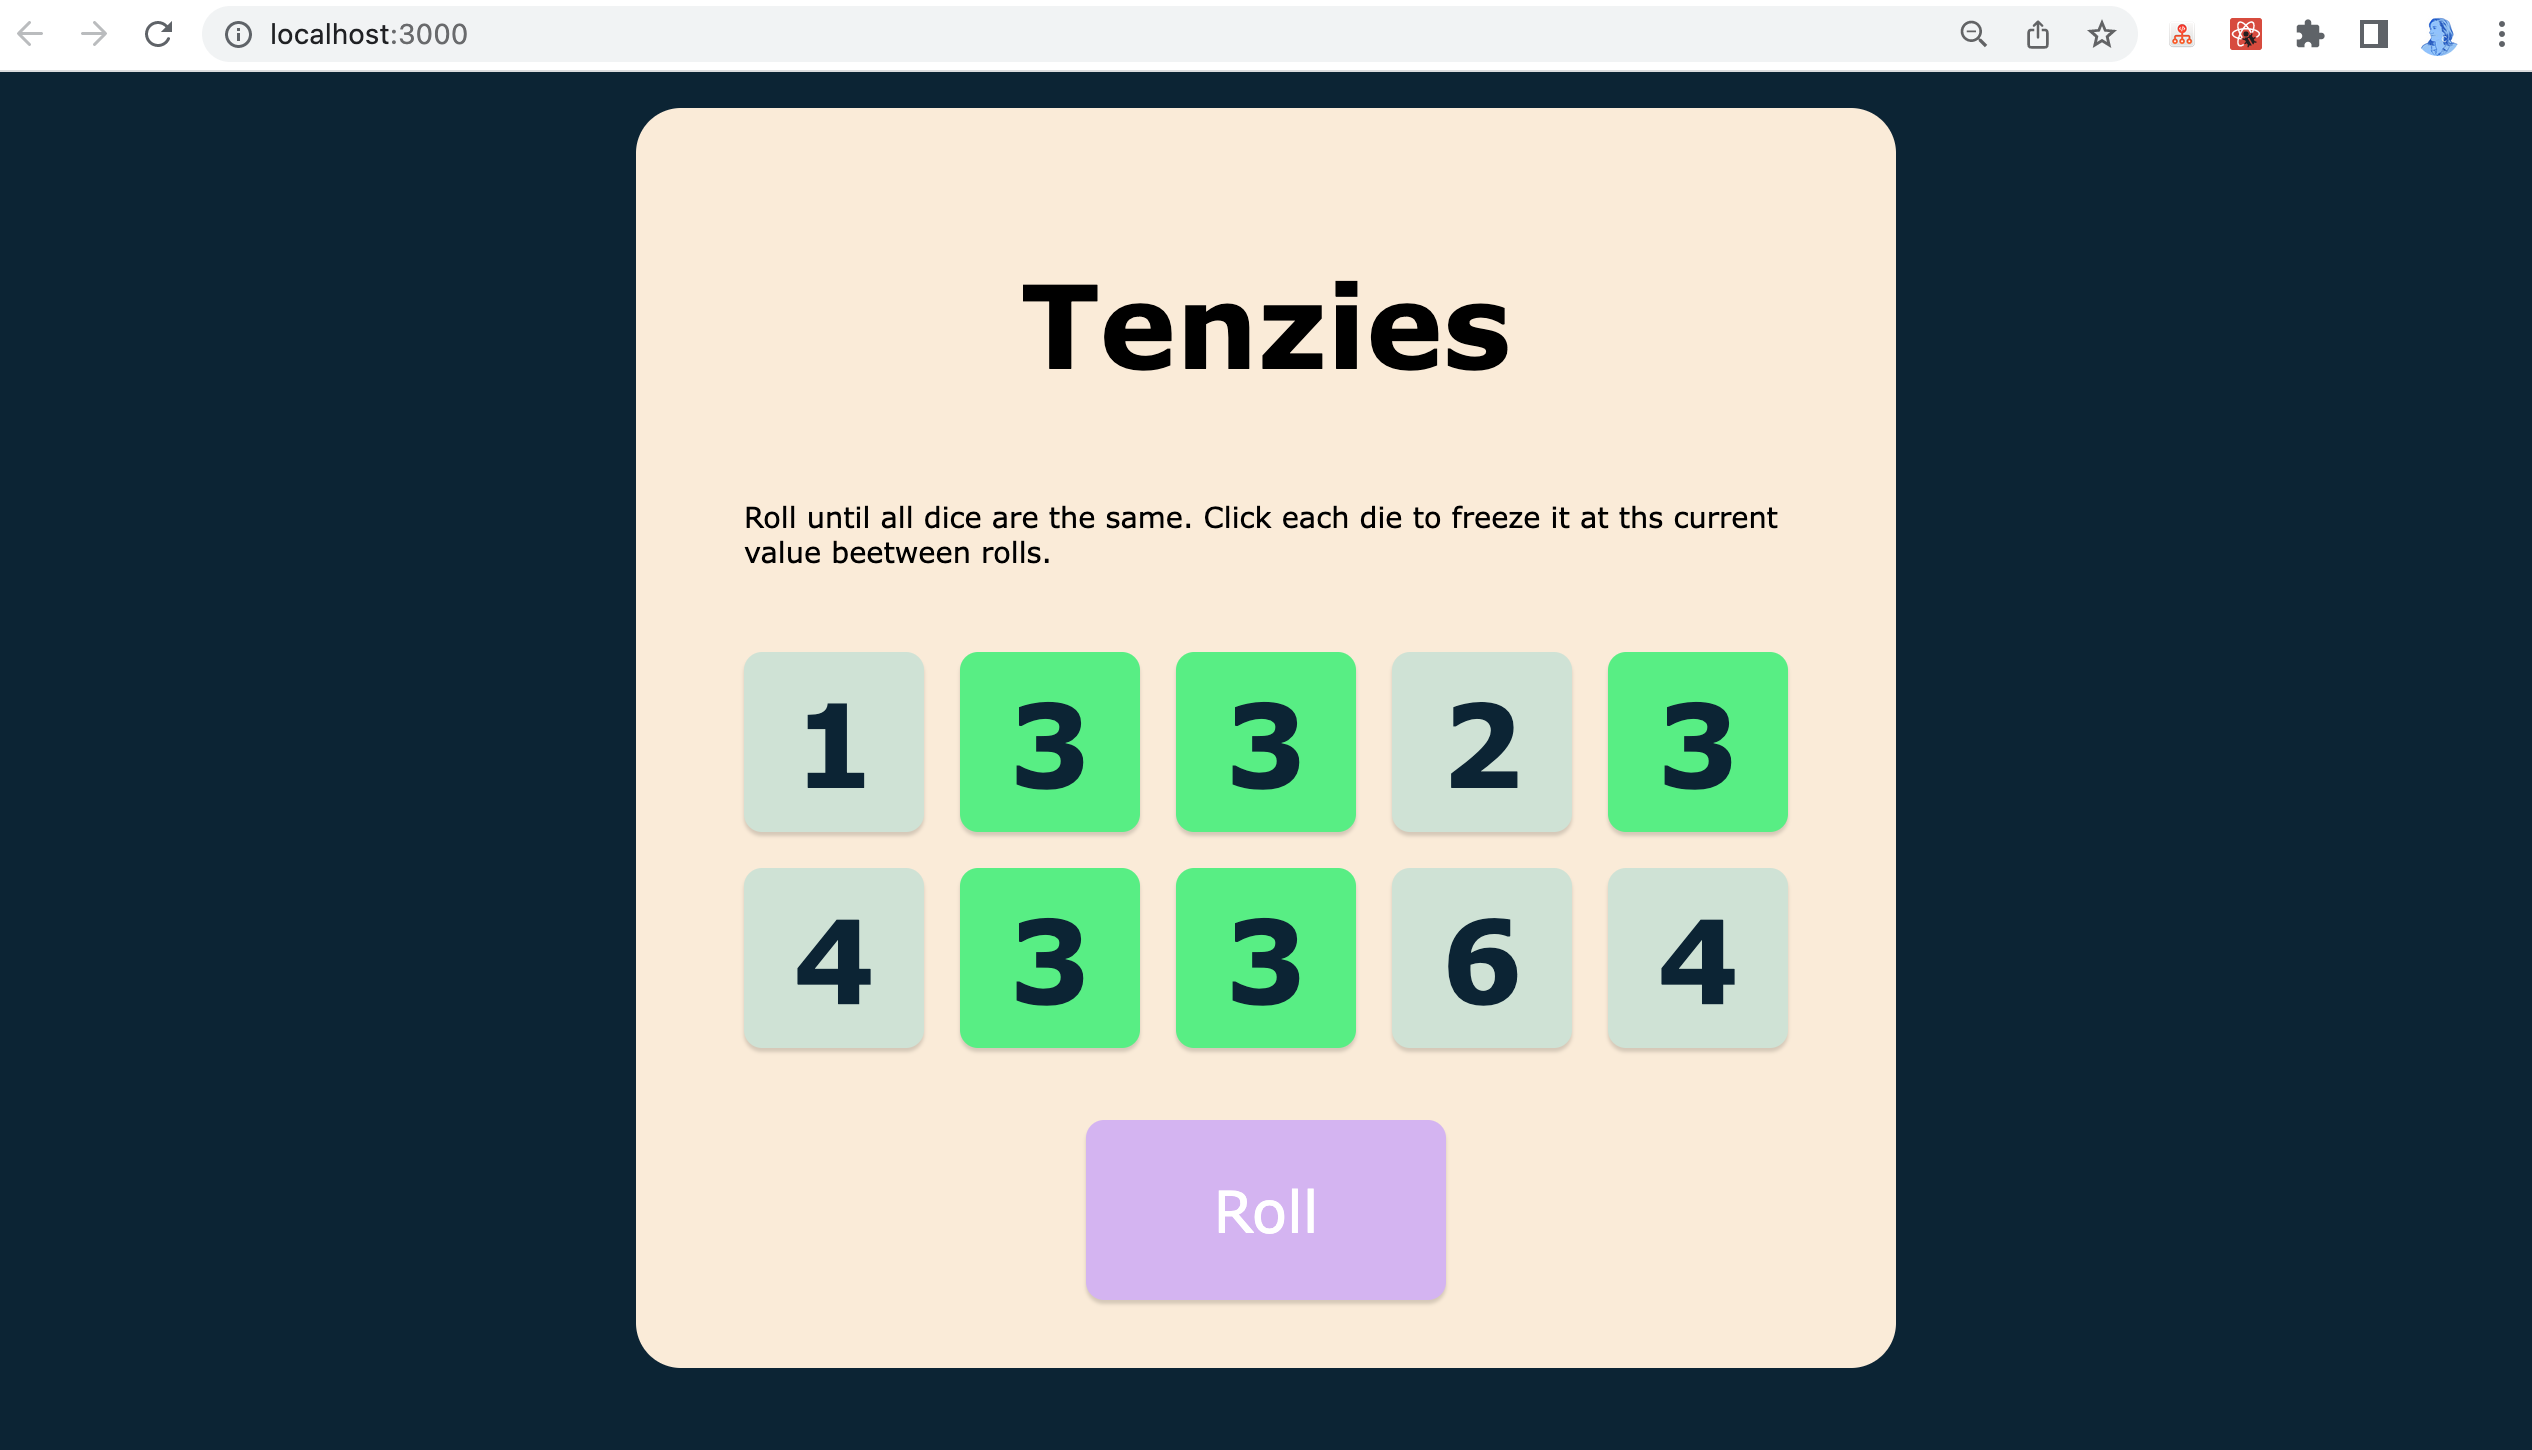
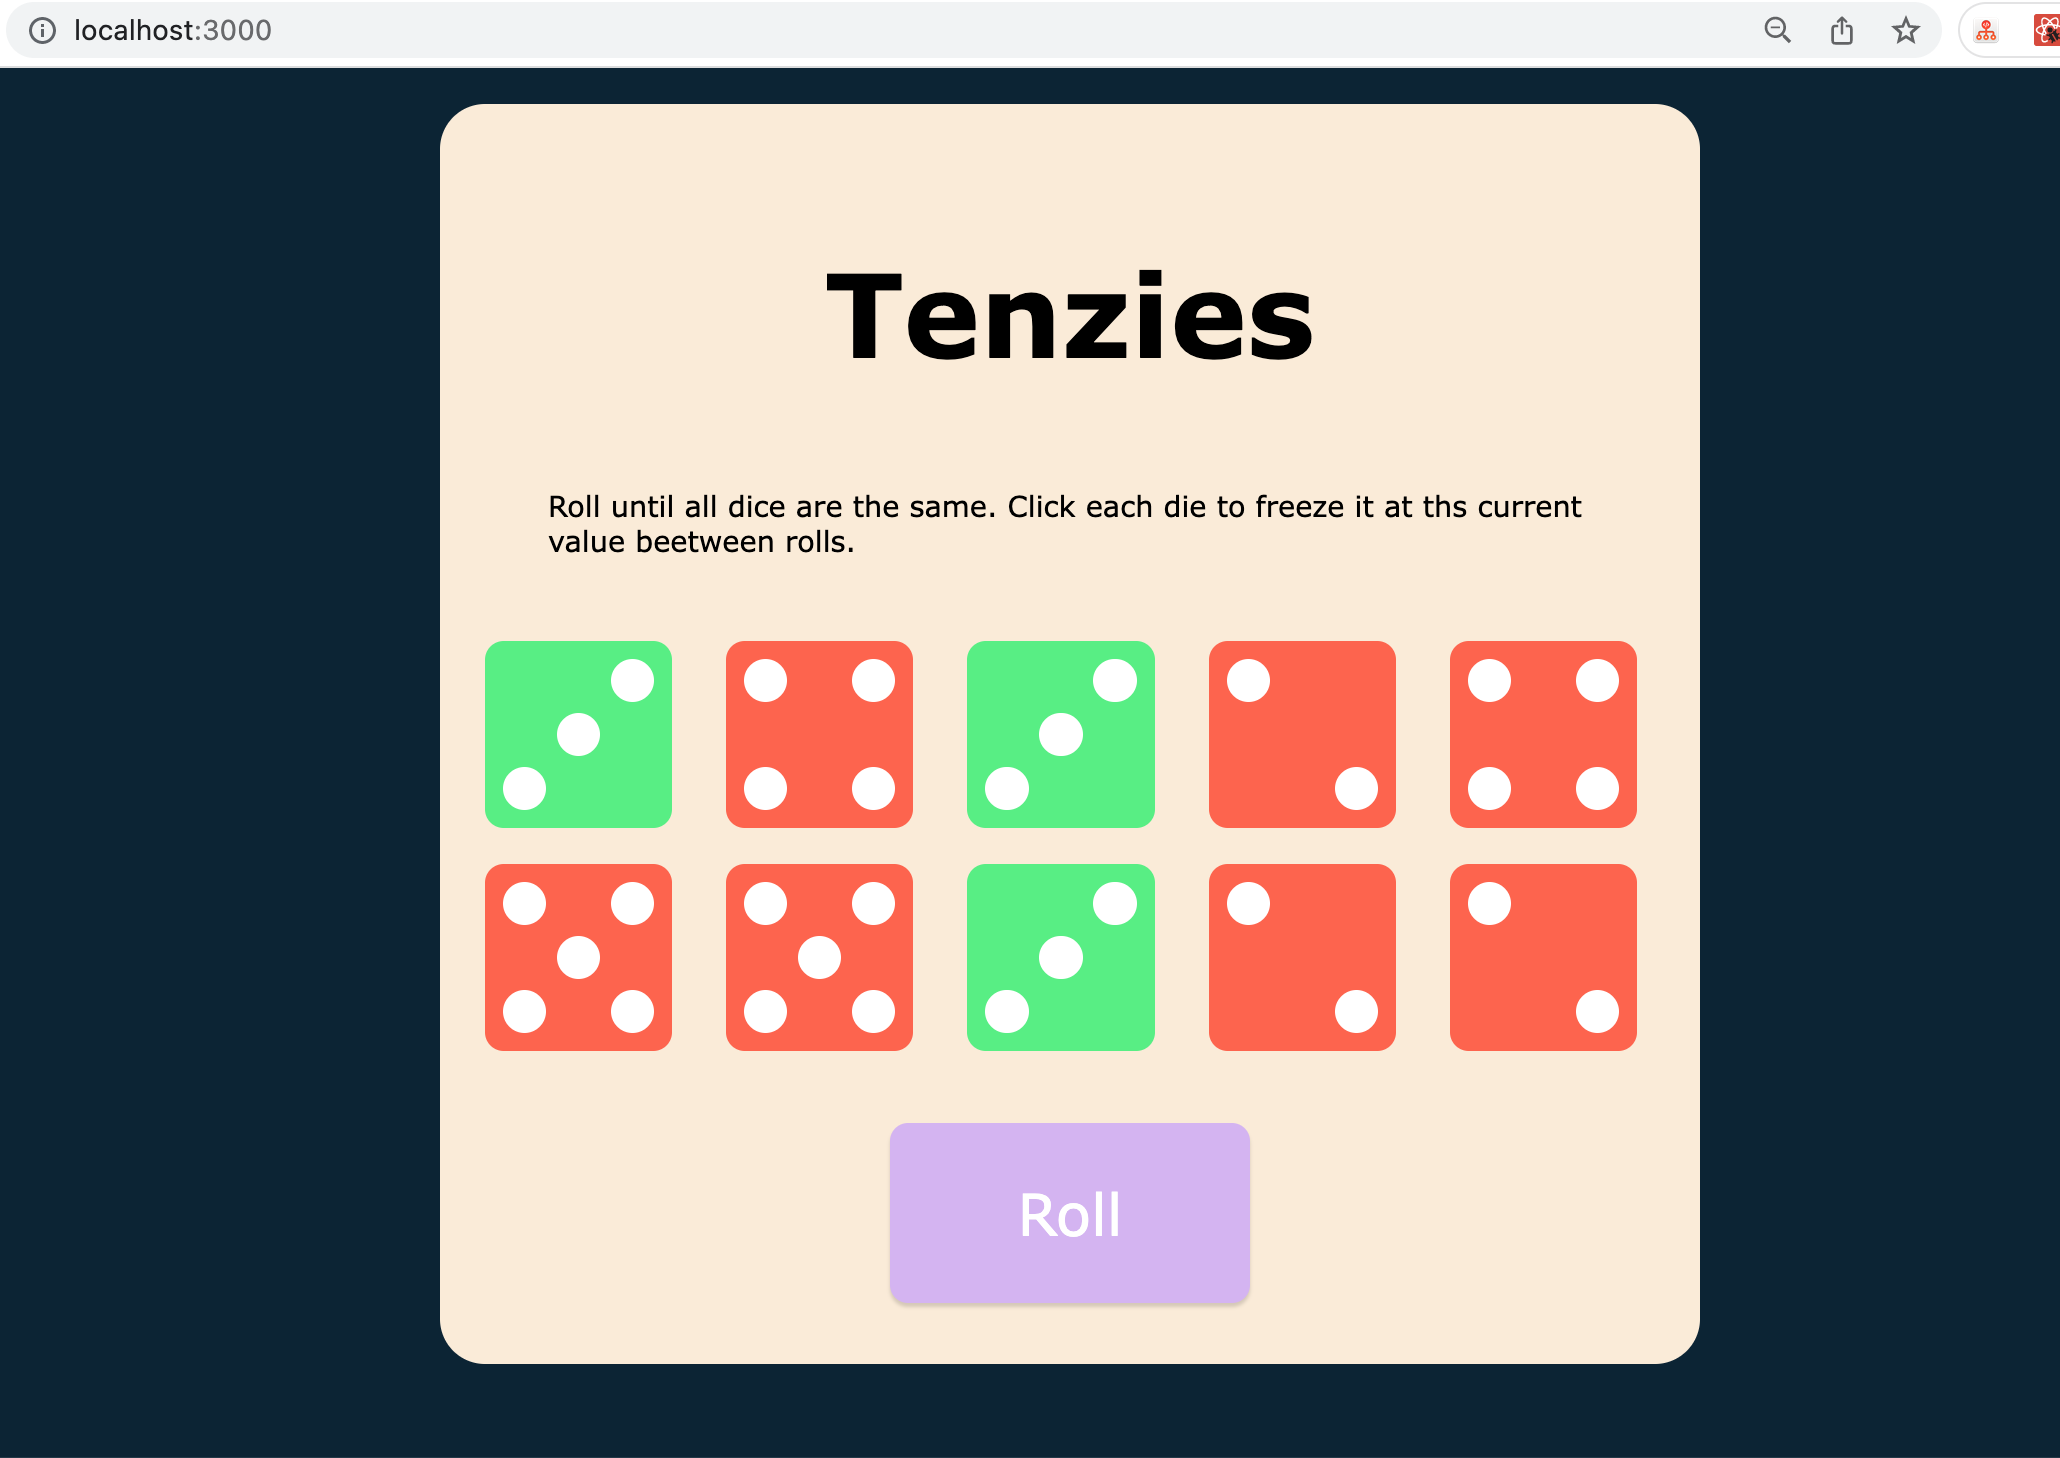
Dice face CSS styling updated

Changed region(s): [[0.0, 0.0, 1.0, 0.9621], [0.4039, 0.1862, 0.6524, 0.2793]]

diff --git a/src/Die.js b/src/Die.js
@@ -1,10 +1,76 @@
 export default function Die(props) {
+  const heldStyles = props.isHeld ? "die-is-held" : "die-is-not-held";
 
-  const styles = props.isHeld ? "die-is-held" : "die-is-not-held";
+  const faces = {
+    1: "first",
+    2: "second",
+    3: "third",
+    4: "fourth",
+    5: "fifth",
+    6: "sixth",
+  };
+
+  const face = faces[props.value];
+
+  const dots = [
+    <span class="dot"></span>,
+    <>
+      <span class="dot"></span>
+      <span class="dot"></span>
+    </>,
+    <>
+      <span class="dot"></span>
+      <span class="dot"></span>
+      <span class="dot"></span>
+    </>,
+    <>
+      <div class="column">
+        <span class="dot"></span>
+        <span class="dot"></span>
+      </div>
+      <div class="column">
+        <span class="dot"></span>
+        <span class="dot"></span>
+      </div>
+    </>,
+    <>
+      <div class="column">
+        <span class="dot"></span>
+        <span class="dot"></span>
+      </div>
+      <div class="column">
+        <span class="dot"></span>
+      </div>
+      <div class="column">
+        <span class="dot"></span>
+        <span class="dot"></span>
+      </div>
+    </>,
+    <>
+      <div class="column">
+        <span class="dot"></span>
+        <span class="dot"></span>
+        <span class="dot"></span>
+      </div>
+      <div class="column">
+        <span class="dot"></span>
+        <span class="dot"></span>
+        <span class="dot"></span>
+      </div>
+    </>,
+  ];
 
   return (
-    <div onClick={props.holdDice} className={`die-face ${styles}`}>
-      <h1 className="die-num">{props.value}</h1>
+    <div
+      onClick={props.holdDice}
+      className={`die-face ${heldStyles} ${face}-face`}
+    >
+      {face === "first" && dots[0]}
+      {face === "second" && dots[1]}
+      {face === "third" && dots[2]}
+      {face === "fourth" && dots[3]}
+      {face === "fifth" && dots[4]}
+      {face === "sixth" && dots[5]}
     </div>
   );
 }

diff --git a/src/App.css b/src/App.css
@@ -7,7 +7,7 @@ body {
   background-color: #0b2434;
   padding: 20px;
   font-family: Verdana;
-    display: flex;
+  display: flex;
   flex-direction: column;
   justify-content: center;
   align-items: center;
@@ -34,13 +34,11 @@ main {
 }
 
 .die-face {
-  height: 100px;
-  width: 100px;
-  border-radius: 10px;
-  box-shadow: 0px 2px 2px rgba(0, 0, 0, 0.15);
-  display: flex;
-  justify-content: center;
-  align-items: center;
+  padding: 10px;
+  width: 104px;
+  height: 104px;
+  border-radius: 10%;
+  margin-right: 10px;
   cursor: pointer;
 }
 
@@ -49,7 +47,7 @@ main {
 }
 
 .die-is-not-held {
-  background-color: rgb(206, 226, 212);
+  background-color: tomato;
 }
 
 .die-num {
@@ -88,4 +86,59 @@ main {
 
 .roll-button:active {
   box-shadow: inset 5px 5px 10px -3px rgba(150, 85, 181, 0.7);
+}
+
+.first-face {
+  display: flex;
+  justify-content: center;
+  align-items: center;
+}
+
+.dot {
+  display: block;
+  width: 24px;
+  height: 24px;
+  border-radius: 50%;
+  background-color: white;
+}
+
+.second-face {
+  display: flex;
+  justify-content: space-between;
+}
+
+.second-face .dot:nth-of-type(2) {
+  align-self: flex-end;
+}
+
+.third-face {
+  display: flex;
+  justify-content: space-between;
+}
+
+.third-face .dot:nth-of-type(1) {
+  align-self: flex-end;
+}
+
+.third-face .dot:nth-of-type(2) {
+  align-self: center;
+}
+
+.fourth-face,
+.sixth-face,
+.fifth-face {
+  display: flex;
+  justify-content: space-between;
+}
+
+.fourth-face .column,
+.sixth-face .column,
+.fifth-face .column {
+  display: flex;
+  flex-direction: column;
+  justify-content: space-between;
+}
+
+.fifth-face .column:nth-of-type(2) {
+  justify-content: center;
 }

diff --git a/README.md b/README.md
@@ -10,28 +10,11 @@ Practice project as part of the freeCodeCamp course - [React JavaScript Library 
 - JavaScript
 - ReactJS
 - HTML
-- CSS
+- CSS ([Dice CSS stying reference](https://betterprogramming.pub/creating-dice-in-flexbox-in-css-a02a5d85e516) )
 - [React-confetti effect](https://github.com/alampros/react-confetti) 
+- Hosted on Heroku
 
 
-## Requirements    
-
-### Brief
-
-- Tenzi game rules: Everyone gets ten dice. Someone says, “Go.” Then everyone rolls and rolls as fast as they can until someone gets all their dice on the same number and shouts “TENZI.”
-- Make a version of the Tenzi dice game, to win, all ten dice must have the same number selected.
-
-<p style="text-align: center;">
-  <img alt="Homepage" src="./public/Screenshot 2022-08-22-Scrimba.png" width="80%"> 
-</p>
-
-### Topics Covered
-
-  - Event Listeners
-  - State
-  - Conditional Rendering
-  - Side Effects
-  
 
 ## Screenshots of application
 
@@ -46,3 +29,23 @@ Practice project as part of the freeCodeCamp course - [React JavaScript Library 
 <p style="text-align: center;">
   <img alt="Homepage" src="./public/Screenshot 2022-08-22-Won.png" width="80%"> 
 </p>
+
+
+## Requirements    
+
+- Make a version of the Tenzi dice game, to win all ten dice must have the same number selected. 
+- Original Tenzi game rules: Everyone gets ten dice. Someone says, “Go.” Then everyone rolls and rolls as fast as they can until someone gets all their dice on the same number and shouts “TENZI.”
+
+- Tutorial template:
+
+<p style="text-align: center;">
+  <img alt="Homepage" src="./public/Screenshot 2022-08-22-Scrimba.png" width="80%"> 
+</p>
+
+### React Topics Covered
+
+  - Event Listeners
+  - State
+  - Conditional Rendering
+  - Side Effects
+  
